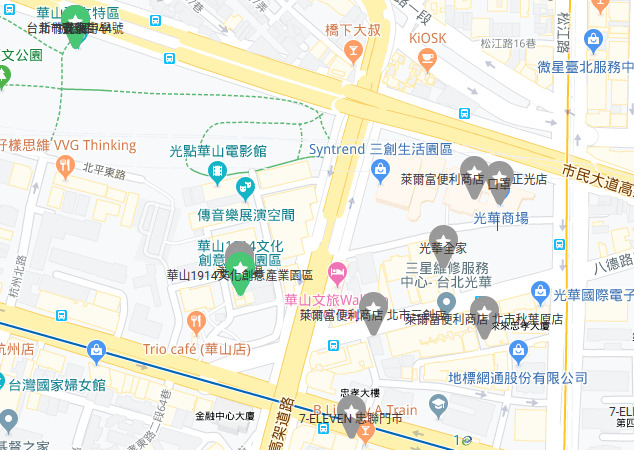
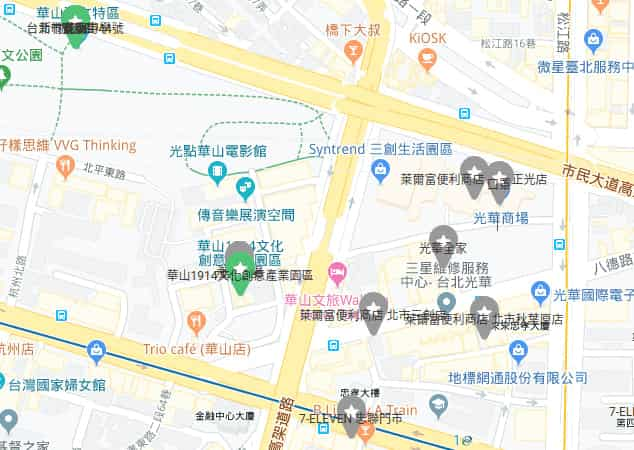
* compress images

diff --git a/index.md b/index.md
@@ -6,12 +6,12 @@ image: og.jpg
 歡迎您運用以下社群朋友開發的應用界面，了解即時的口罩供需情況：<br>
 （ℹ 口罩的取得須依政府頒布的規則辦理。）
 
-<a href="https://mask.goodideas-studio.com/"><img max-height="500px" max-width="500px" src="img/gdg.jpg"></a>
+<a href="https://mask.goodideas-studio.com/"><picture><source type="image/webp" srcset="img/gdg.webp" /><source type="image/jpeg" srcset="img/gdg.jpg" /><img src="img/gdg.jpg" /></picture></a>
 ### <a href="https://mask.goodideas-studio.com/">口罩地圖 by GDG @ 好想工作室</a>
 
 ---
 
-<a href="https://kuro.tw/mask-map/"><img max-height="500px" max-width="500px" src="img/leaflet.jpg"></a>
+<a href="https://kuro.tw/mask-map/"><picture><source type="image/webp" srcset="img/leaflet.webp" /><source type="image/jpeg" srcset="img/leaflet.jpg" /><img src="img/leaflet.jpg" /></picture></a>
 ### <a href="https://kuro.tw/mask-map/">Leaflet map with 藥局資料</a> by kuro
 
 ---
